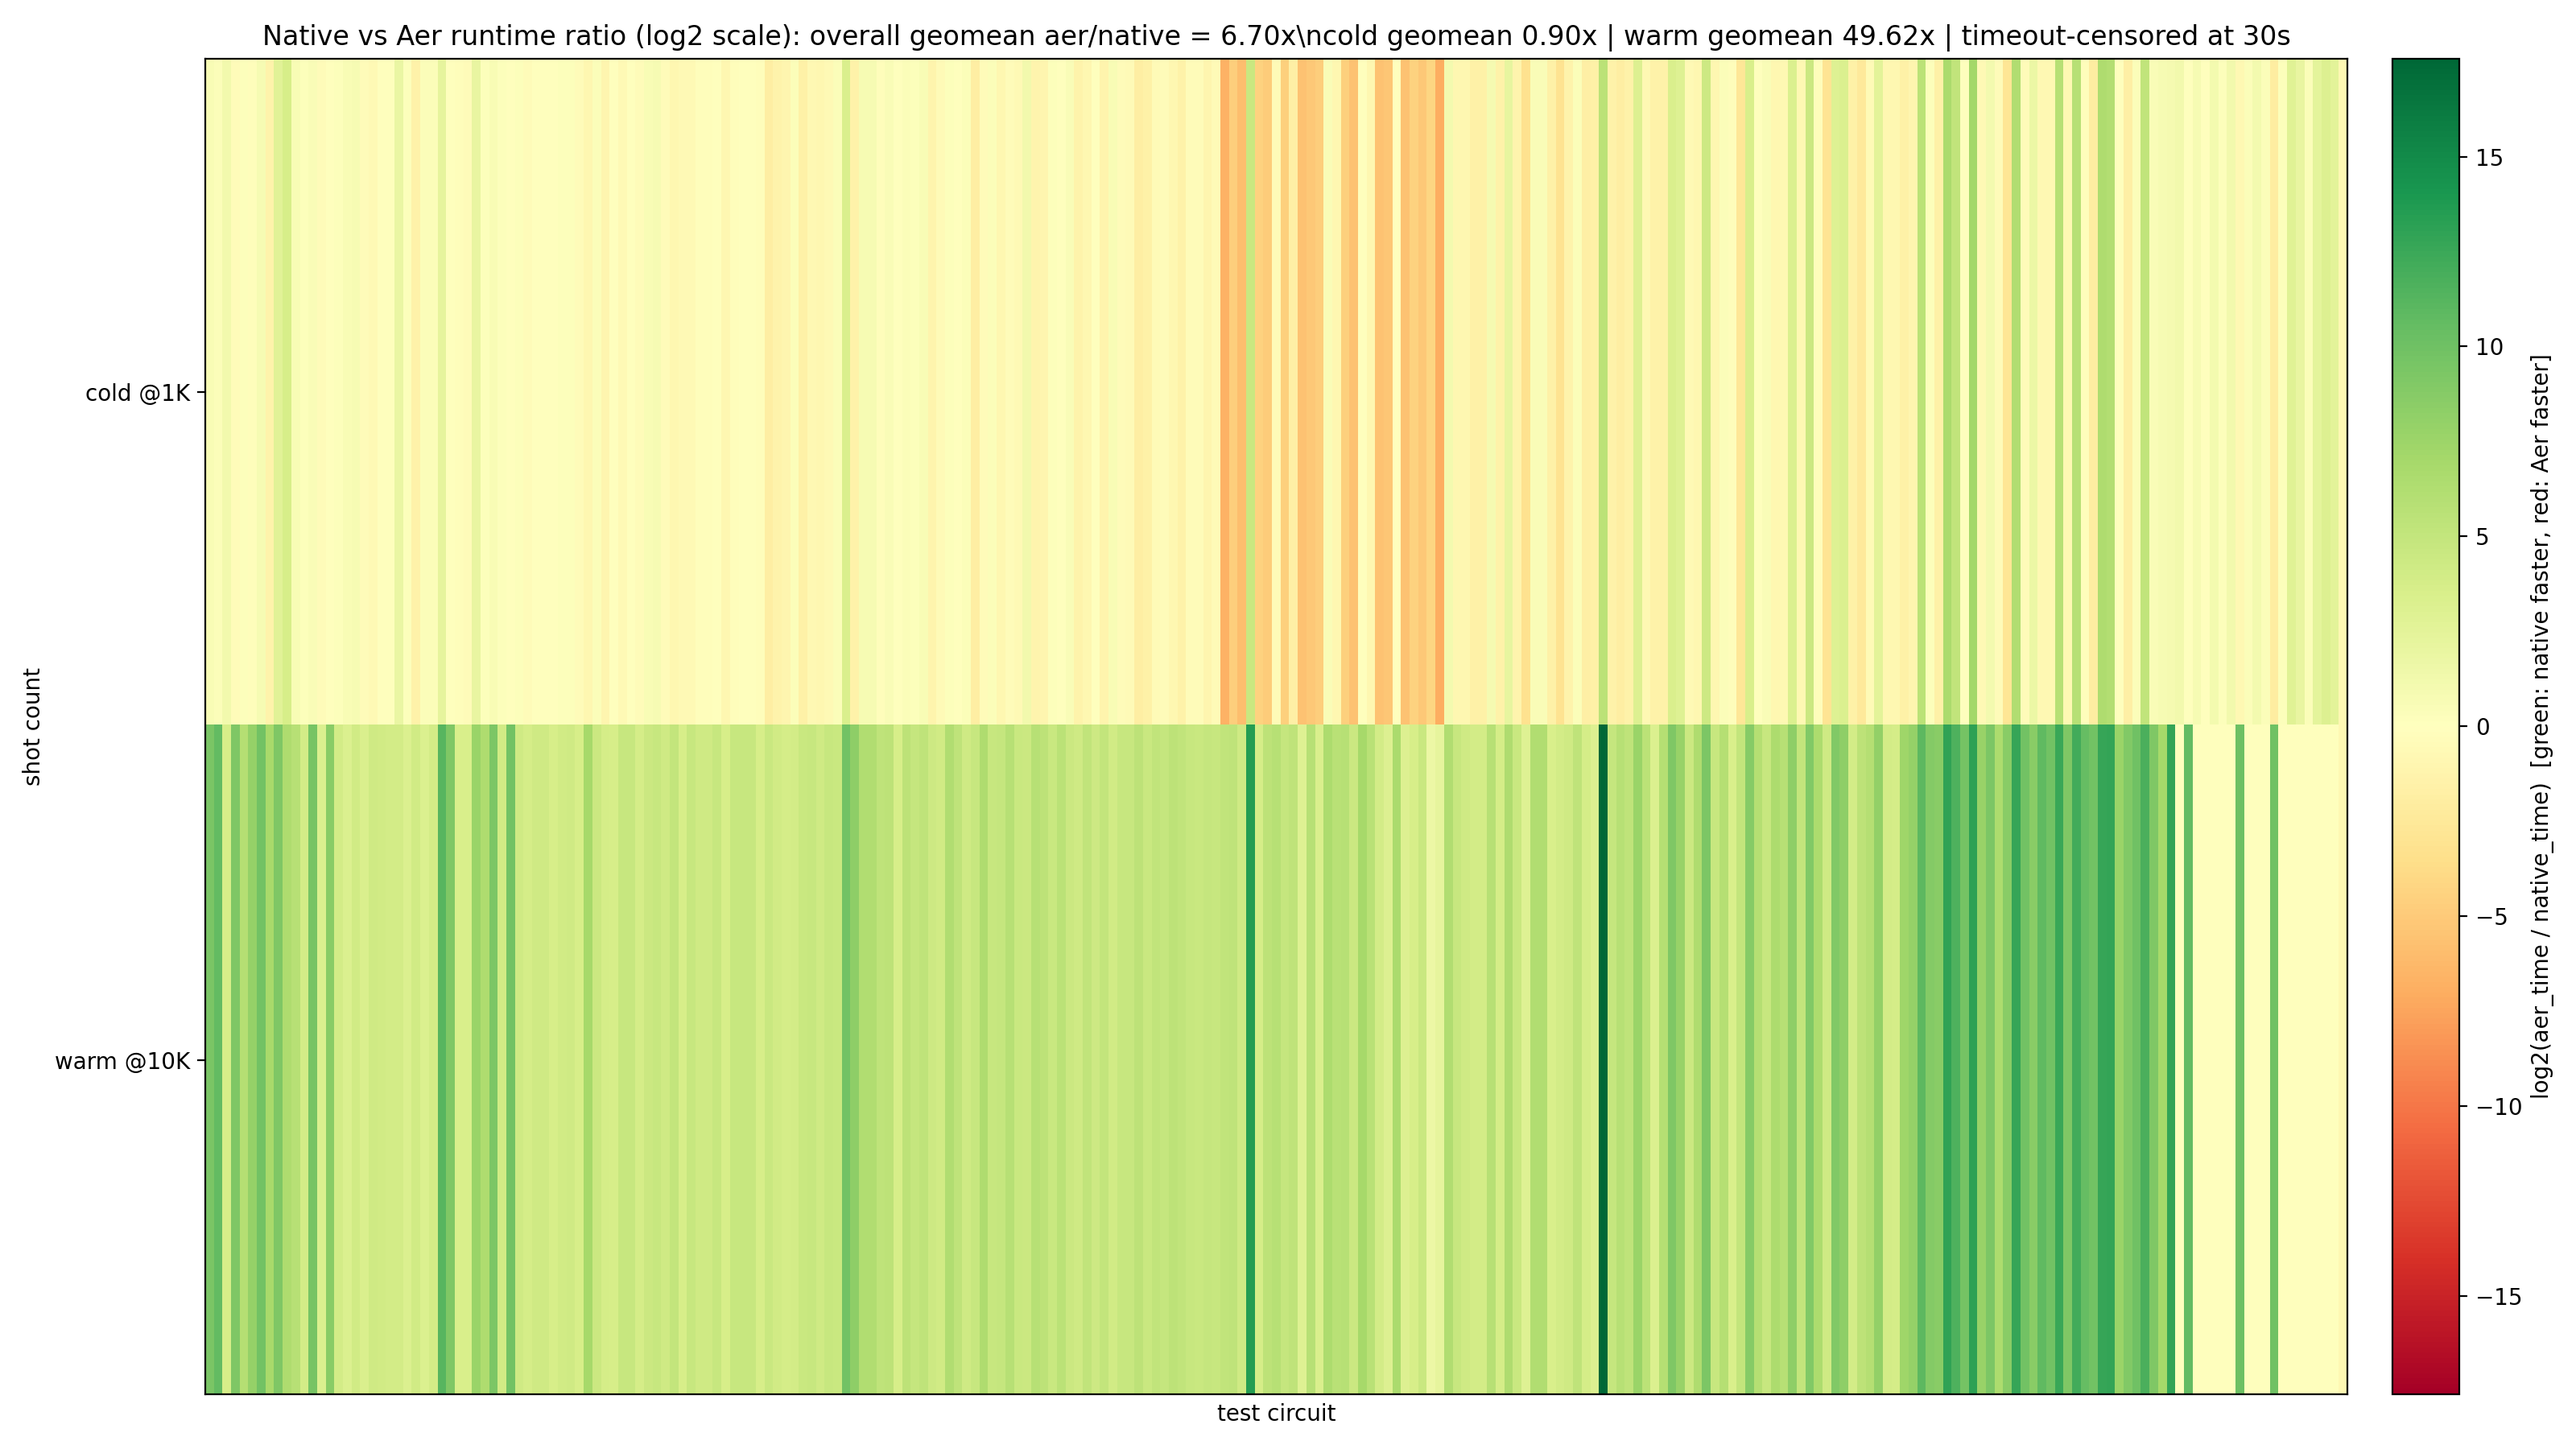
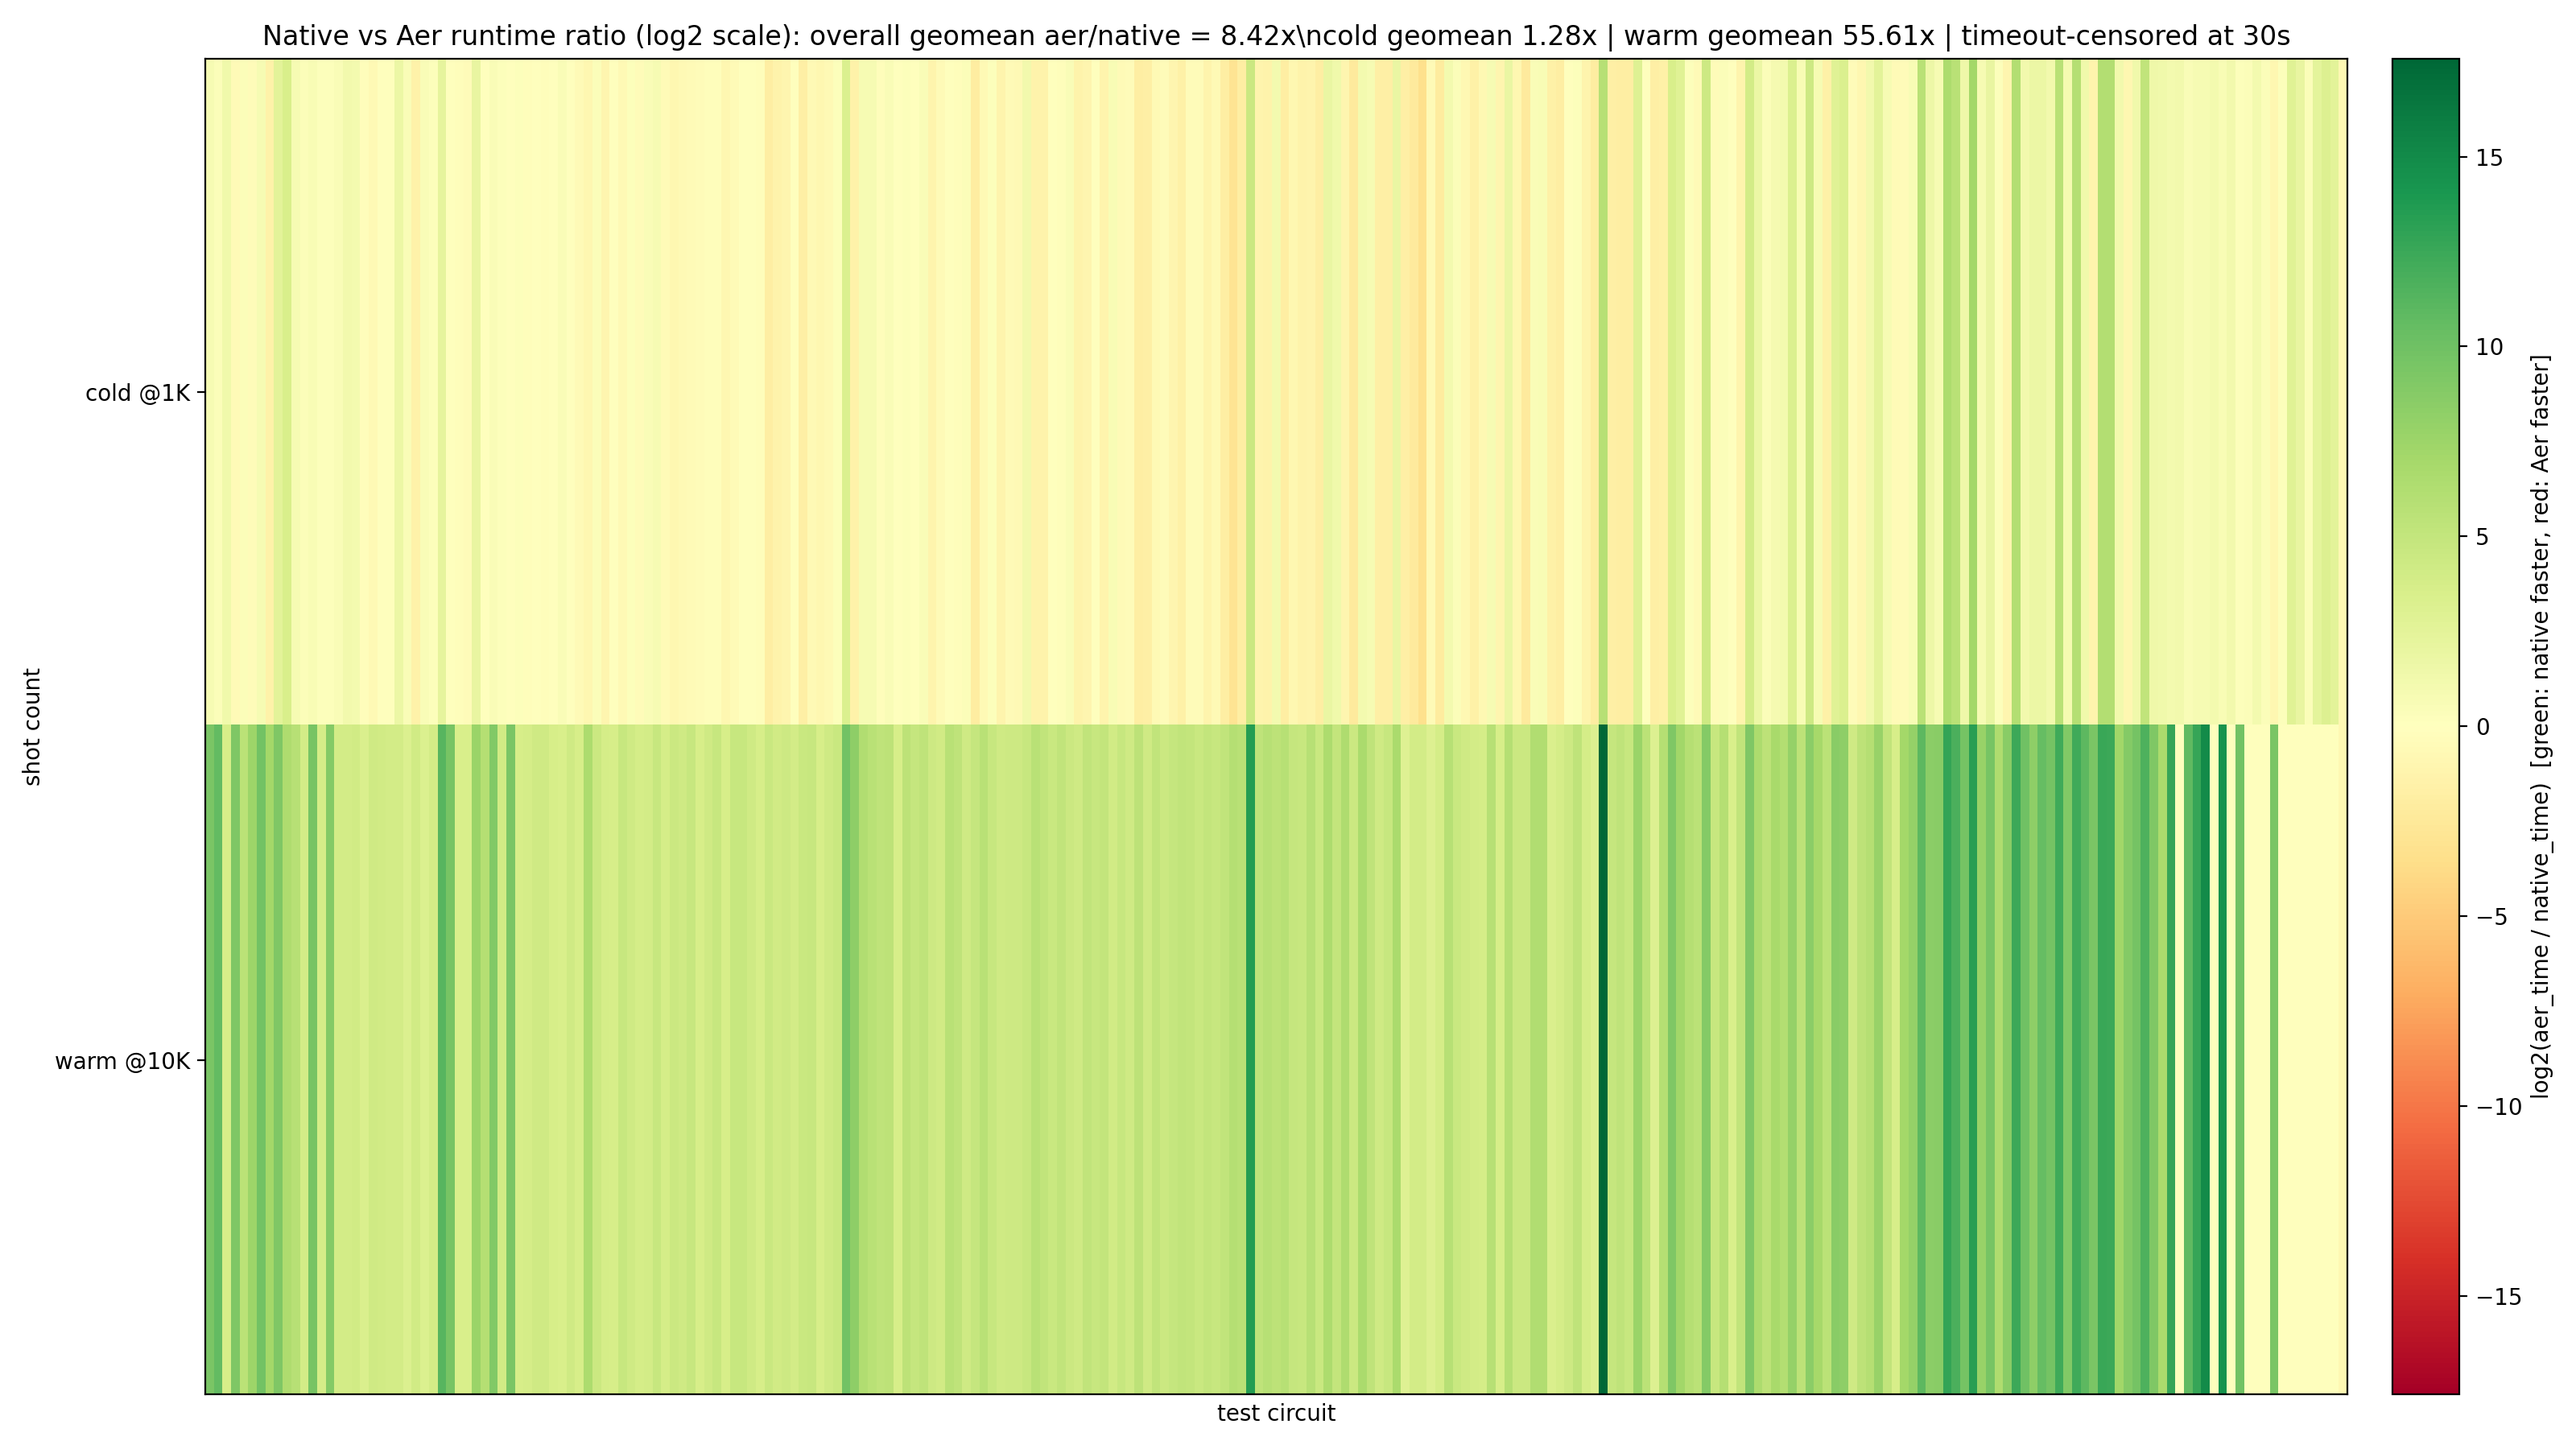
Record fd66b54 checkpoint and refresh native-vs-aer heatmap

diff --git a/docs/experiment-log.md b/docs/experiment-log.md
@@ -61,3 +61,4 @@ Metric column: core-6 @1000 total for idx 0-24; full-suite @1000 total (complete
 | 42 | `cd36f38` | Added a cost-aware compile-time 1q fusion pass for large static circuits (`n_qubits >= 20`) before heavy diagonal/permutation fusion. The pass fuses only when predicted gate-runtime cost decreases, preserves diagonal/permutation structure when possible, and re-runs inverse cancellation. This keeps small/dynamic workloads on the safer path while cutting dispatch-heavy 24q cold hotspots (`quantum_volume_24` 23.28s→21.92s, `heisenberg_trotter_24` 9.24s→7.26s). Censored Aer geomean improved 7.40x→7.47x with unchanged coverage (229/249 complete). | 81.17s / 0.19s (229 cases) | Worked (1.06x cold, 1.02x warm) |
 | 43 | `382f2f1` | Reworked benchmark timeout into an active wall-clock kill: each case runs in a spawned worker, parent enforces per-shot hard timeout and force-terminates overruns so the suite cannot hang in the 28q tail. This improved run completion stability (`232/249` complete vs `229/249`) and prevented indefinite stalls, but regressed aggregate performance due heavier cold-path behavior/timeout censoring (`81.17s→113.46s` cold, `0.19s→0.23s` warm) and reduced censored Aer geomean (`7.66x→5.23x`). | 113.46s / 0.23s (232 cases) | Mixed (stability up, speed down) |
 | 44 | `adf2705` | Fixed persistent timeout-worker identity reuse by retaining one case object per name across the worker lifetime, eliminating compile-cache key collisions that caused `w_state_large_28` correctness failures. Kept the case-cold hard-timeout worker model, reran full suite, and refreshed native-vs-Aer analysis. Outcome: no correctness FAILs among completed cases, same coverage (`232/249`), stricter timeout behavior in the 28q tail (`ising_ordered_28` now consistently aborts under 30s hard limit; measured ~60.9s cold when uncapped). Censored Aer geomean improved (`5.23x→6.70x` overall; cold `0.62x→0.90x`, warm `44.09x→49.62x`). | 131.52s / 0.25s (232 cases) | Mixed (correctness fixed, totals regressed) |
+| 45 | `fd66b54` | Added gated MPS dense 1q/2q kernels with cached row-major gate coefficients and dense-kernel dispatch in the batched executor. Dense-heavy large static circuits improved materially in case-cold timing (`quantum_volume_24` ~14.66s→~9.58s, `heisenberg_trotter_24` ~6.10s→~3.63s in controlled A/B), and full-suite completion increased to `235/249` with zero correctness failures among completed cases. Censored native-vs-Aer geomean improved (`6.70x→8.42x`; cold `0.90x→1.28x`, warm `49.62x→55.61x`). | 132.34s / 0.23s (235 cases) | Worked (coverage +3, geomean +26%) |

diff --git a/docs/progress-data.md b/docs/progress-data.md
@@ -40,6 +40,7 @@ Benchmark schedule: cold @1K (cache cleared) + warm @10K per circuit. Two calls 
 | 14 | `2026-02-12T192423.jsonl` | `cd36f38` | `cd36f38\n02-12T1924` | 81.1741 | 0.1898 | 229 |
 | 15 | `2026-02-12T201222.jsonl` | `382f2f1` | `382f2f1\n02-12T2012` | 113.4620 | 0.2287 | 232 |
 | 16 | `2026-02-12T205755.jsonl` | `adf2705` | `adf2705\n02-12T2057` | 131.5244 | 0.2453 | 232 |
+| 17 | `2026-02-12T220946.jsonl` | `fd66b54` | `fd66b54\n02-12T2209` | 132.3427 | 0.2296 | 235 |
 
 ## SOTA Reference — Qiskit Aer (Full Suite)
 
